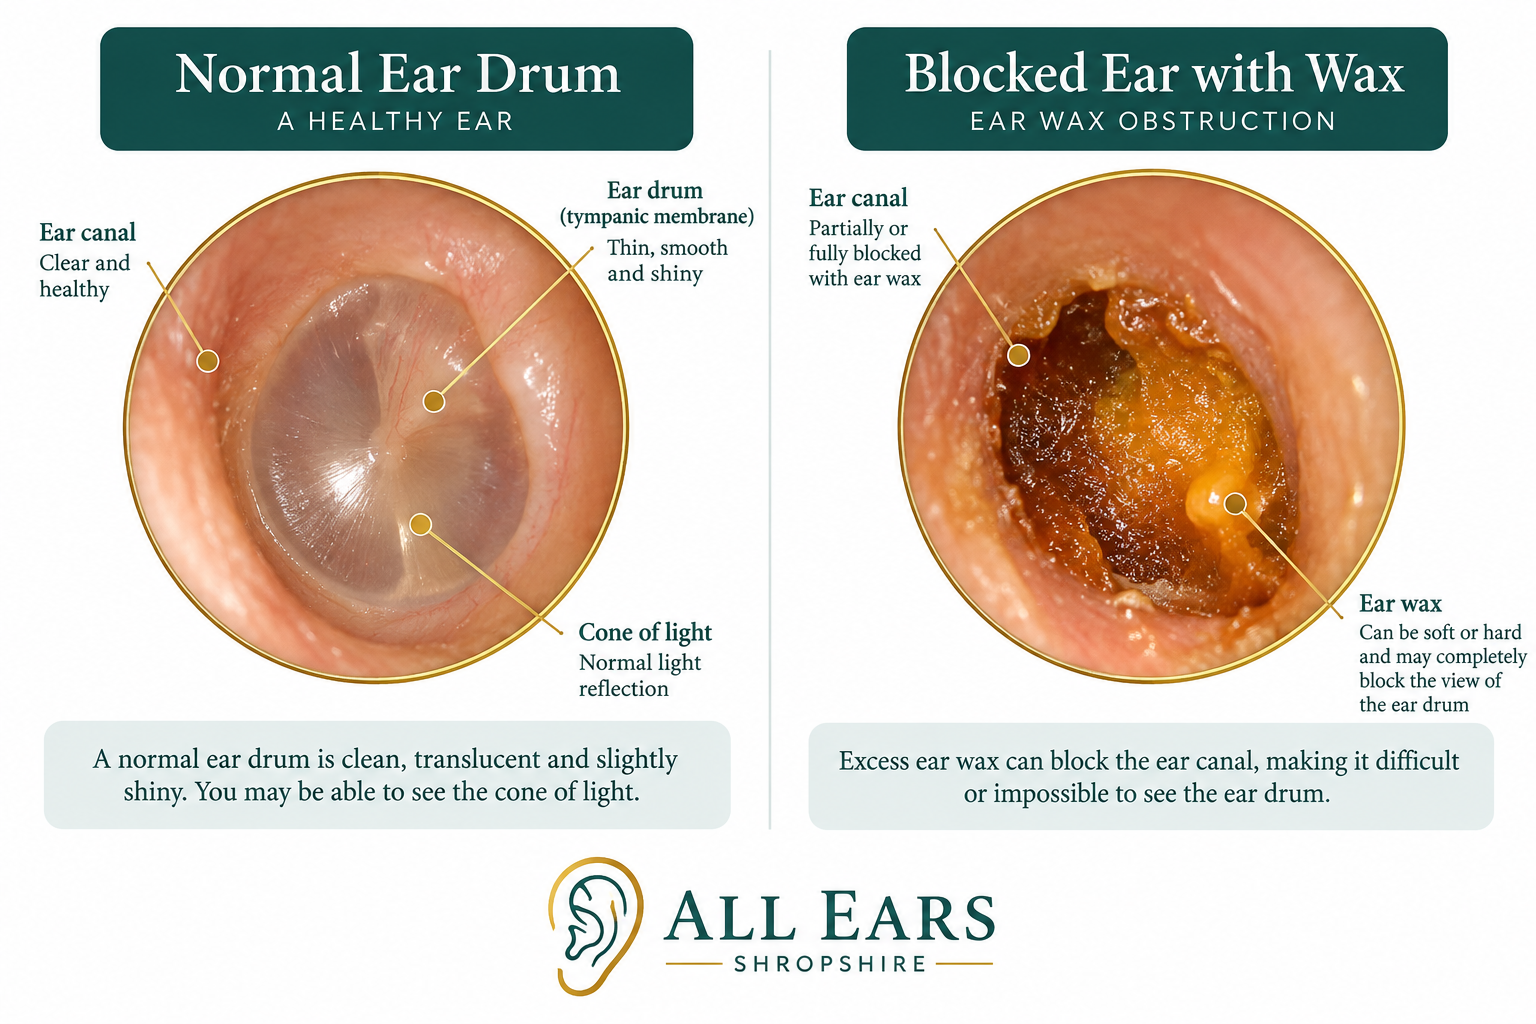
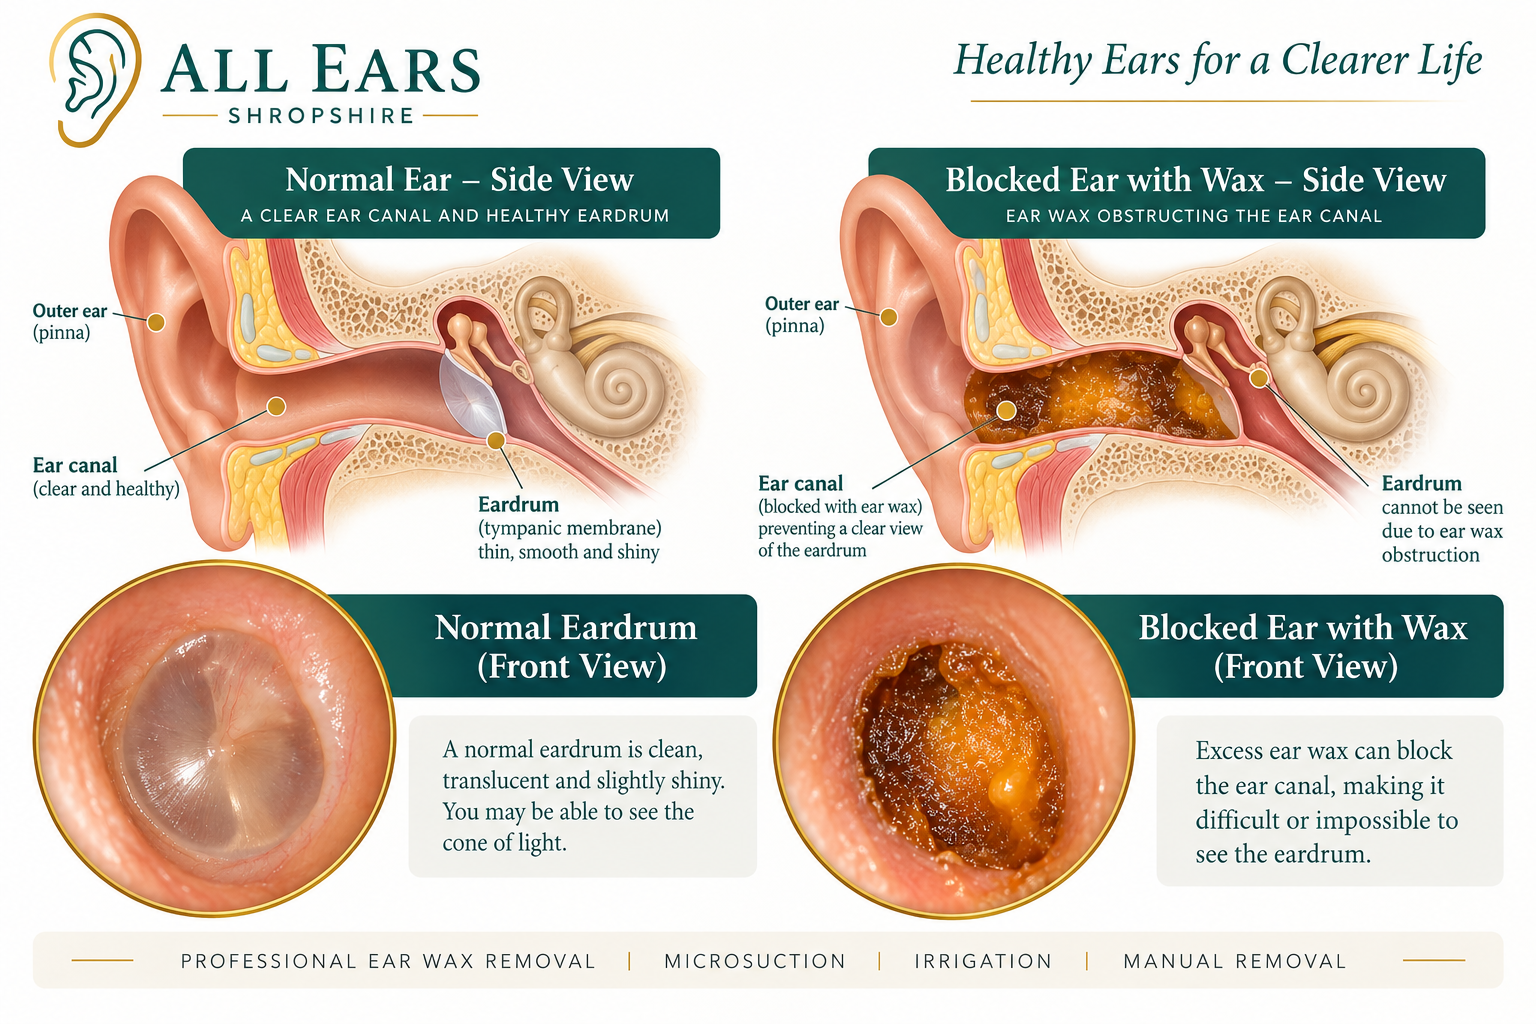
Add files via upload

diff --git a/index.html b/index.html
@@ -43,4 +43,4 @@
 .ear-diagram-section h2{color:var(--teal)}
 .ear-diagram-section img{display:block;width:100%;max-width:960px;height:auto;margin:25px auto 12px;border-radius:8px}
 .ear-diagram-section .fine{max-width:760px;margin:0 auto}
-</style></head><body><header class="top"><div class="wrap nav"><a class="brand" href="#home"><img src="logo.png" alt="All Ears Shropshire logo"><span>All Ears Shropshire</span></a><nav class="links" aria-label="Main navigation"><a href="#services">Treatments</a><a href="#pricing">Prices</a><a href="#about">About</a><a href="#contact">Contact</a><a class="btn" href="https://managepatients.com/book?org=all-ears-shropshire" target="_blank" rel="noopener">Book Online</a></nav></div></header><main><section class="hero" id="home"><div class="wrap"><div class="inner"><span class="eyebrow">Clearer hearing · Happier days</span><h1>Feel the difference of clearer hearing.</h1><p>Professional, caring ear wax removal in Shropshire, with convenient home visits in Shrewsbury and surrounding areas.</p><div class="actions"><a class="btn" href="https://managepatients.com/book?org=all-ears-shropshire" target="_blank" rel="noopener">Book Your Appointment</a><a class="btn outline" style="color:white;border-color:#d8e2db" href="#services">Explore Treatments</a></div></div></div></section><section class="section" id="services"><div class="wrap"><div class="center"><span class="eyebrow" style="color:var(--gold)">Our services</span><h2>Gentle, professional ear care</h2><p class="intro">Your ears are unique. The most suitable approach will be discussed following an ear-health assessment.</p></div><div class="cards"><article class="card"><span class="num">01 / MICROSUCTION</span><h3>Microsuction</h3><p>A controlled method of removing ear wax using gentle suction under direct visual guidance, where clinically appropriate.</p></article><article class="card"><span class="num">02 / IRRIGATION</span><h3>Ear Irrigation</h3><p>Carefully controlled water irrigation may be suitable for some patients following screening and assessment.</p></article><article class="card"><span class="num">03 / MANUAL REMOVAL</span><h3>Manual Removal</h3><p>Specialist instruments can be used to remove accessible wax where this is considered appropriate and safe.</p></article></div></div></section><section class="ear-diagram-section" id="ear-health-diagram"><div class="wrap"><span class="eyebrow" style="color:var(--gold)">Understanding ear health</span><h2>What does earwax blockage look like?</h2><p class="intro">A simple illustration comparing a healthy eardrum with an ear canal obstructed by wax.</p><img src="ear-health-comparison.png" alt="Illustration comparing a visible healthy eardrum with an ear canal blocked by earwax" loading="lazy"><p class="fine">Illustrative educational image only, not a diagnostic photograph. An ear examination is needed to assess your individual ear health.</p></div></section><section class="section muted" id="pricing"><div class="wrap"><div class="center"><span class="eyebrow" style="color:var(--gold)">Transparent pricing</span><h2>Home visit prices</h2><p class="intro">Professional ear care at home. Our standard prices include travel within 10 miles driving distance of SY3 6AG.</p></div><div class="price-grid" id="price-list"><div class="price-line"><span>Ear Health Check</span><strong>£35</strong></div><div class="price-line"><span>Microsuction — One Ear</span><strong>£40</strong></div><div class="price-line"><span>Microsuction — Both Ears</span><strong>£70</strong></div><div class="price-line"><span>Irrigation — One Ear</span><strong>£40</strong></div><div class="price-line"><span>Irrigation — Both Ears</span><strong>£70</strong></div></div><div class="travel"><strong>Travel charges:</strong> Travel within 10 miles of SY3 6AG is included. Beyond 10 miles, an additional <strong>£10</strong> applies, subject to availability. Any charge is confirmed before your appointment.</div><div class="offer"><h3>Better Hearing Together — 10% off</h3><p>Book ear-wax removal for two people at the same address during the same home visit and enjoy <strong>10% off both treatments.</strong></p><small>Offer applies to ear-wax removal treatments only. Excludes ear health checks and additional travel charges. Not valid with other offers.</small></div><p class="center" style="margin-top:30px"><a class="btn" href="https://managepatients.com/book?org=all-ears-shropshire" target="_blank" rel="noopener">Book a Home Visit ↗</a></p></div></section><section class="section about-amanda" id="about"><div class="wrap"><div class="about-layout"><div class="about-photo-column"><div class="portrait-frame"><img src="amanda.jpg" alt="Amanda, founder of All Ears Shropshire" loading="lazy"></div></div><div class="about-copy"><span class="eyebrow" style="color:var(--gold)">The person behind All Ears</span><h2>Meet Amanda</h2><h3>Professional ear care with a personal touch</h3><p>Hello, I'm Amanda, the friendly face behind <strong>All Ears Shropshire</strong>.</p><p>Having previously worked as a Community Staff Nurse, I understand the importance of compassionate, individualised care and helping people feel comfortable and reassured.</p><p>I'm trained and certified in ear-wax removal, DBS checked and insured, giving you added peace of mind when welcoming me into your home.</p><p>I established All Ears Shropshire to offer friendly, convenient and personalised ear care in Shrewsbury and surrounding areas. I take time to listen to your concerns, explain your options and help you feel at ease throughout your appointment.</p><p>Whether you need an ear health check, microsuction or irrigation, treatment options are discussed following an assessment of your individual needs and suitability.</p><p class="about-tagline">Clearer Hearing · Happier Days</p><div class="trust-line" aria-label="Professional credentials"><span>Trained &amp; Certified</span><b aria-hidden="true">✦</b><span>DBS Checked</span><b aria-hidden="true">✦</b><span>Insured</span></div><a class="btn" href="https://managepatients.com/book?org=all-ears-shropshire" target="_blank" rel="noopener">Book a Home Visit</a></div></div></div></section><section class="section booking" id="book"><div class="wrap"><span class="eyebrow" style="color:var(--gold)">Appointments</span><h2>Ready for clearer hearing?</h2><p>Choose a convenient appointment through our secure ManagePatients booking system. You'll be asked to complete the necessary screening and consent information before treatment.</p><a class="btn" href="https://managepatients.com/book?org=all-ears-shropshire" target="_blank" rel="noopener">Book Online Now ↗</a><p class="fine">Appointments cancelled with less than 48 hours’ notice, or missed appointments, may be subject to a cancellation fee.</p></div></section><section class="section contact" id="contact"><div class="wrap split"><div><span class="eyebrow">Contact us</span><h2>We'd love to hear from you.</h2><p>Questions about treatment, availability or a home visit? Please call or email.</p></div><div><p><strong>Telephone</strong><br><a href="tel:+447802616268">07802 616268</a></p><p><strong>Email</strong><br><a href="mailto:Allearsshropshire@gmail.com">Allearsshropshire@gmail.com</a></p><p><strong>Website</strong><br>www.allearsshropshire.co.uk</p><p><strong>Follow All Ears Shropshire</strong></p><div class="social-links"><a href="https://www.facebook.com/share/19Y5zyHkCh/" target="_blank" rel="noopener noreferrer" aria-label="All Ears Shropshire on Facebook"><svg viewBox="0 0 24 24" aria-hidden="true"><path d="M22 12a10 10 0 1 0-11.56 9.88v-6.99H7.9V12h2.54V9.8c0-2.5 1.49-3.89 3.77-3.89 1.09 0 2.23.2 2.23.2v2.46h-1.26c-1.24 0-1.63.77-1.63 1.56V12h2.77l-.44 2.89h-2.33v6.99A10 10 0 0 0 22 12z"/></svg>Facebook</a><a href="https://www.instagram.com/allearsshropshire/" target="_blank" rel="noopener noreferrer" aria-label="All Ears Shropshire on Instagram"><svg viewBox="0 0 24 24" aria-hidden="true"><path d="M7 2h10a5 5 0 0 1 5 5v10a5 5 0 0 1-5 5H7a5 5 0 0 1-5-5V7a5 5 0 0 1 5-5zm0 2a3 3 0 0 0-3 3v10a3 3 0 0 0 3 3h10a3 3 0 0 0 3-3V7a3 3 0 0 0-3-3H7zm5 3a5 5 0 1 1 0 10 5 5 0 0 1 0-10zm0 2a3 3 0 1 0 0 6 3 3 0 0 0 0-6zm5.5-2.5a1.25 1.25 0 1 1 0 2.5 1.25 1.25 0 0 1 0-2.5z"/></svg>Instagram</a></div></div></div></section></main><footer><div class="wrap footerinner"><span>© <span id="year">2026</span> All Ears Shropshire. All rights reserved.</span><span>Professional Ear Wax Removal · Shropshire</span></div></footer><script>document.getElementById('year').textContent=new Date().getFullYear();fetch('pricing.json',{cache:'no-store'}).then(r=>{if(!r.ok)throw Error('Not found');return r.json()}).then(data=>{const list=document.getElementById('price-list');if(Array.isArray(data.treatments)){list.replaceChildren();data.treatments.forEach(item=>{const line=document.createElement('div');line.className='price-line';const label=document.createElement('span');label.textContent=item.name;const price=document.createElement('strong');price.textContent='£'+Number(item.price).toFixed(0);line.append(label,price);list.append(line)})}const travel=document.querySelector('.travel');if(data.travel){travel.textContent='';const title=document.createElement('strong');title.textContent='Travel charges: ';travel.append(title,document.createTextNode('Travel within '+data.travel.included_miles+' miles of '+data.travel.base_postcode+' is included. Beyond '+data.travel.included_miles+' miles, an additional £'+data.travel.extra_charge+' applies, subject to availability. Any charge is confirmed before your appointment.'))}const offer=document.querySelector('.offer strong');if(offer&&data.discount)offer.textContent=data.discount.percent+'% off both treatments.'}).catch(()=>{});</script></body></html>
+</style></head><body><header class="top"><div class="wrap nav"><a class="brand" href="#home"><img src="logo.png" alt="All Ears Shropshire logo"><span>All Ears Shropshire</span></a><nav class="links" aria-label="Main navigation"><a href="#services">Treatments</a><a href="#pricing">Prices</a><a href="#about">About</a><a href="#contact">Contact</a><a class="btn" href="https://managepatients.com/book?org=all-ears-shropshire" target="_blank" rel="noopener">Book Online</a></nav></div></header><main><section class="hero" id="home"><div class="wrap"><div class="inner"><span class="eyebrow">Clearer hearing · Happier days</span><h1>Feel the difference of clearer hearing.</h1><p>Professional, caring ear wax removal in Shropshire, with convenient home visits in Shrewsbury and surrounding areas.</p><div class="actions"><a class="btn" href="https://managepatients.com/book?org=all-ears-shropshire" target="_blank" rel="noopener">Book Your Appointment</a><a class="btn outline" style="color:white;border-color:#d8e2db" href="#services">Explore Treatments</a></div></div></div></section><section class="section" id="services"><div class="wrap"><div class="center"><span class="eyebrow" style="color:var(--gold)">Our services</span><h2>Gentle, professional ear care</h2><p class="intro">Your ears are unique. The most suitable approach will be discussed following an ear-health assessment.</p></div><div class="cards"><article class="card"><span class="num">01 / MICROSUCTION</span><h3>Microsuction</h3><p>A controlled method of removing ear wax using gentle suction under direct visual guidance, where clinically appropriate.</p></article><article class="card"><span class="num">02 / IRRIGATION</span><h3>Ear Irrigation</h3><p>Carefully controlled water irrigation may be suitable for some patients following screening and assessment.</p></article><article class="card"><span class="num">03 / MANUAL REMOVAL</span><h3>Manual Removal</h3><p>Specialist instruments can be used to remove accessible wax where this is considered appropriate and safe.</p></article></div></div></section><section class="ear-diagram-section" id="ear-health-diagram"><div class="wrap"><span class="eyebrow" style="color:var(--gold)">Understanding ear health</span><h2>What does earwax blockage look like?</h2><p class="intro">A side-view and front-view illustration comparing a healthy ear with an ear canal obstructed by wax.</p><img src="ear-health-comparison.png" alt="Educational illustration showing side and front views of a healthy ear and an ear canal blocked by wax" loading="lazy"><p class="fine">Illustrative educational image only, not a diagnostic photograph. An ear examination is needed to assess your individual ear health.</p></div></section><section class="section muted" id="pricing"><div class="wrap"><div class="center"><span class="eyebrow" style="color:var(--gold)">Transparent pricing</span><h2>Home visit prices</h2><p class="intro">Professional ear care at home. Our standard prices include travel within 10 miles driving distance of SY3 6AG.</p></div><div class="price-grid" id="price-list"><div class="price-line"><span>Ear Health Check</span><strong>£35</strong></div><div class="price-line"><span>Microsuction — One Ear</span><strong>£40</strong></div><div class="price-line"><span>Microsuction — Both Ears</span><strong>£70</strong></div><div class="price-line"><span>Irrigation — One Ear</span><strong>£40</strong></div><div class="price-line"><span>Irrigation — Both Ears</span><strong>£70</strong></div></div><div class="travel"><strong>Travel charges:</strong> Travel within 10 miles of SY3 6AG is included. Beyond 10 miles, an additional <strong>£10</strong> applies, subject to availability. Any charge is confirmed before your appointment.</div><div class="offer"><h3>Better Hearing Together — 10% off</h3><p>Book ear-wax removal for two people at the same address during the same home visit and enjoy <strong>10% off both treatments.</strong></p><small>Offer applies to ear-wax removal treatments only. Excludes ear health checks and additional travel charges. Not valid with other offers.</small></div><p class="center" style="margin-top:30px"><a class="btn" href="https://managepatients.com/book?org=all-ears-shropshire" target="_blank" rel="noopener">Book a Home Visit ↗</a></p></div></section><section class="section about-amanda" id="about"><div class="wrap"><div class="about-layout"><div class="about-photo-column"><div class="portrait-frame"><img src="amanda.jpg" alt="Amanda, founder of All Ears Shropshire" loading="lazy"></div></div><div class="about-copy"><span class="eyebrow" style="color:var(--gold)">The person behind All Ears</span><h2>Meet Amanda</h2><h3>Professional ear care with a personal touch</h3><p>Hello, I'm Amanda, the friendly face behind <strong>All Ears Shropshire</strong>.</p><p>Having previously worked as a Community Staff Nurse, I understand the importance of compassionate, individualised care and helping people feel comfortable and reassured.</p><p>I'm trained and certified in ear-wax removal, DBS checked and insured, giving you added peace of mind when welcoming me into your home.</p><p>I established All Ears Shropshire to offer friendly, convenient and personalised ear care in Shrewsbury and surrounding areas. I take time to listen to your concerns, explain your options and help you feel at ease throughout your appointment.</p><p>Whether you need an ear health check, microsuction or irrigation, treatment options are discussed following an assessment of your individual needs and suitability.</p><p class="about-tagline">Clearer Hearing · Happier Days</p><div class="trust-line" aria-label="Professional credentials"><span>Trained &amp; Certified</span><b aria-hidden="true">✦</b><span>DBS Checked</span><b aria-hidden="true">✦</b><span>Insured</span></div><a class="btn" href="https://managepatients.com/book?org=all-ears-shropshire" target="_blank" rel="noopener">Book a Home Visit</a></div></div></div></section><section class="section booking" id="book"><div class="wrap"><span class="eyebrow" style="color:var(--gold)">Appointments</span><h2>Ready for clearer hearing?</h2><p>Choose a convenient appointment through our secure ManagePatients booking system. You'll be asked to complete the necessary screening and consent information before treatment.</p><a class="btn" href="https://managepatients.com/book?org=all-ears-shropshire" target="_blank" rel="noopener">Book Online Now ↗</a><p class="fine">Appointments cancelled with less than 48 hours’ notice, or missed appointments, may be subject to a cancellation fee.</p></div></section><section class="section contact" id="contact"><div class="wrap split"><div><span class="eyebrow">Contact us</span><h2>We'd love to hear from you.</h2><p>Questions about treatment, availability or a home visit? Please call or email.</p></div><div><p><strong>Telephone</strong><br><a href="tel:+447802616268">07802 616268</a></p><p><strong>Email</strong><br><a href="mailto:Allearsshropshire@gmail.com">Allearsshropshire@gmail.com</a></p><p><strong>Website</strong><br>www.allearsshropshire.co.uk</p><p><strong>Follow All Ears Shropshire</strong></p><div class="social-links"><a href="https://www.facebook.com/share/19Y5zyHkCh/" target="_blank" rel="noopener noreferrer" aria-label="All Ears Shropshire on Facebook"><svg viewBox="0 0 24 24" aria-hidden="true"><path d="M22 12a10 10 0 1 0-11.56 9.88v-6.99H7.9V12h2.54V9.8c0-2.5 1.49-3.89 3.77-3.89 1.09 0 2.23.2 2.23.2v2.46h-1.26c-1.24 0-1.63.77-1.63 1.56V12h2.77l-.44 2.89h-2.33v6.99A10 10 0 0 0 22 12z"/></svg>Facebook</a><a href="https://www.instagram.com/allearsshropshire/" target="_blank" rel="noopener noreferrer" aria-label="All Ears Shropshire on Instagram"><svg viewBox="0 0 24 24" aria-hidden="true"><path d="M7 2h10a5 5 0 0 1 5 5v10a5 5 0 0 1-5 5H7a5 5 0 0 1-5-5V7a5 5 0 0 1 5-5zm0 2a3 3 0 0 0-3 3v10a3 3 0 0 0 3 3h10a3 3 0 0 0 3-3V7a3 3 0 0 0-3-3H7zm5 3a5 5 0 1 1 0 10 5 5 0 0 1 0-10zm0 2a3 3 0 1 0 0 6 3 3 0 0 0 0-6zm5.5-2.5a1.25 1.25 0 1 1 0 2.5 1.25 1.25 0 0 1 0-2.5z"/></svg>Instagram</a></div></div></div></section></main><footer><div class="wrap footerinner"><span>© <span id="year">2026</span> All Ears Shropshire. All rights reserved.</span><span>Professional Ear Wax Removal · Shropshire</span></div></footer><script>document.getElementById('year').textContent=new Date().getFullYear();fetch('pricing.json',{cache:'no-store'}).then(r=>{if(!r.ok)throw Error('Not found');return r.json()}).then(data=>{const list=document.getElementById('price-list');if(Array.isArray(data.treatments)){list.replaceChildren();data.treatments.forEach(item=>{const line=document.createElement('div');line.className='price-line';const label=document.createElement('span');label.textContent=item.name;const price=document.createElement('strong');price.textContent='£'+Number(item.price).toFixed(0);line.append(label,price);list.append(line)})}const travel=document.querySelector('.travel');if(data.travel){travel.textContent='';const title=document.createElement('strong');title.textContent='Travel charges: ';travel.append(title,document.createTextNode('Travel within '+data.travel.included_miles+' miles of '+data.travel.base_postcode+' is included. Beyond '+data.travel.included_miles+' miles, an additional £'+data.travel.extra_charge+' applies, subject to availability. Any charge is confirmed before your appointment.'))}const offer=document.querySelector('.offer strong');if(offer&&data.discount)offer.textContent=data.discount.percent+'% off both treatments.'}).catch(()=>{});</script></body></html>
